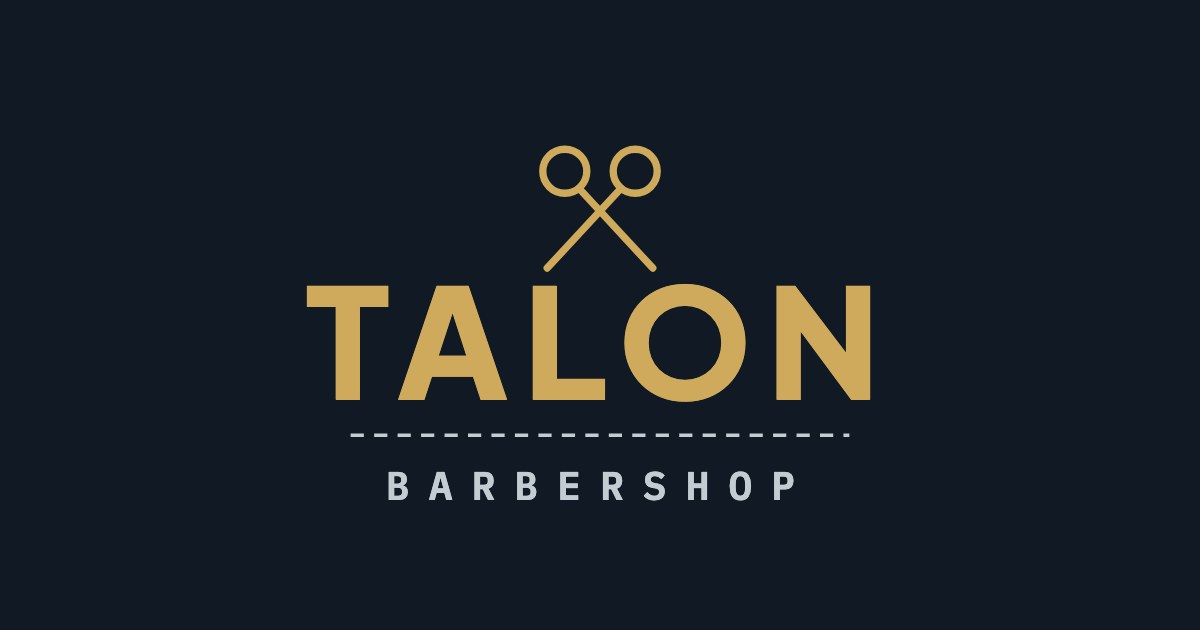
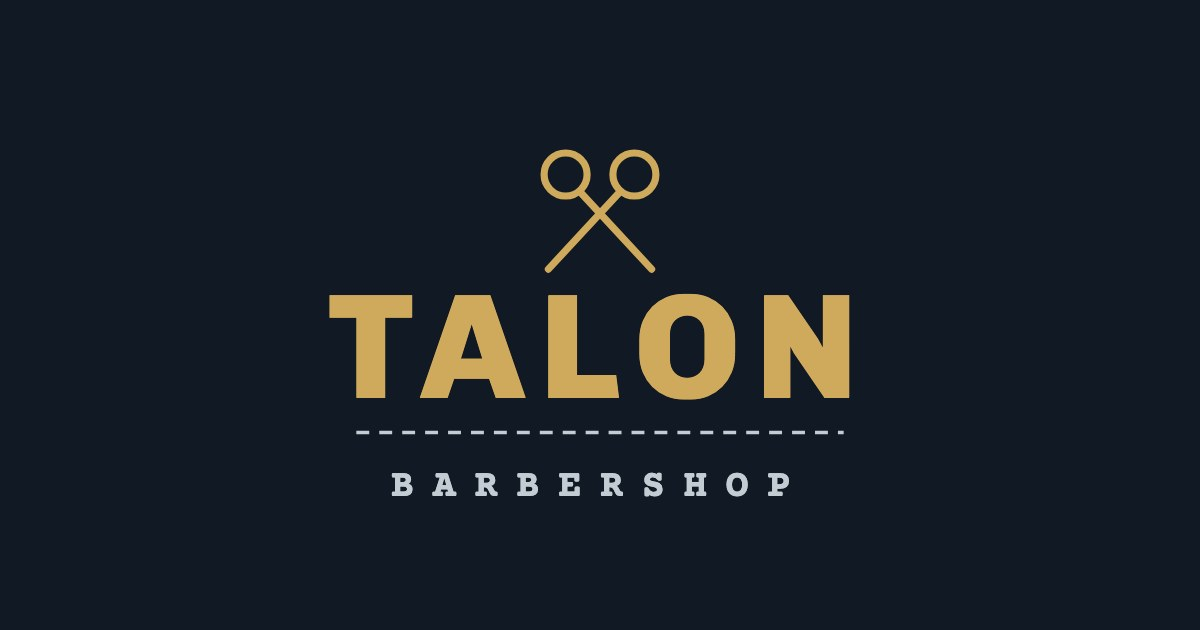
Eigene Schriften (Chivo, Courier Prime), ohne Entwurf-Plakette

diff --git a/index.html b/index.html
@@ -23,7 +23,7 @@
 </script>
 <link rel="preconnect" href="https://fonts.googleapis.com">
 <link rel="preconnect" href="https://fonts.gstatic.com" crossorigin>
-<link href="https://fonts.googleapis.com/css2?family=IBM+Plex+Mono:wght@400;500;600&family=Plus+Jakarta+Sans:wght@400;500;600;700;800&display=swap" rel="stylesheet">
+<link href="https://fonts.googleapis.com/css2?family=Chivo:wght@400;500;600;700;800;900&family=Courier+Prime:wght@400;700&display=swap" rel="stylesheet">
 <style>
 /* ---------- Farben (nur hier; Dunkel definiert nur Farben neu) ---------- */
 :root{
@@ -57,14 +57,14 @@
 *,*::before,*::after{box-sizing:border-box}
 html{-webkit-text-size-adjust:100%;scroll-behavior:smooth}
 body{margin:0;background:var(--bg);color:var(--ink);
-  font-family:"Plus Jakarta Sans",system-ui,-apple-system,"Segoe UI",Roboto,Arial,sans-serif;
+  font-family:"Chivo",system-ui,-apple-system,"Segoe UI",Roboto,Arial,sans-serif;
   font-size:17px;line-height:1.55;overflow-x:hidden;-webkit-font-smoothing:antialiased;
   transition:background-color .35s ease,color .35s ease}
 img{display:block;max-width:100%}
 a{color:inherit}
 :focus-visible{outline:2px solid var(--focus);outline-offset:3px;border-radius:8px}
 .wrap{max-width:1240px;margin:0 auto;padding:0 clamp(16px,4vw,48px)}
-.mono{font-family:"IBM Plex Mono",ui-monospace,"SFMono-Regular",Menlo,Consolas,monospace}
+.mono{font-family:"Courier Prime",ui-monospace,"SFMono-Regular",Menlo,Consolas,monospace}
 .sr{position:absolute;width:1px;height:1px;overflow:hidden;clip:rect(0 0 0 0);white-space:nowrap}
 
 /* ---------- Kopfzeile ---------- */
@@ -117,7 +117,7 @@ h1{font-size:clamp(42px,4.5vw,62px);line-height:1.02;letter-spacing:-.035em;font
   box-shadow:0 14px 26px -16px var(--shadow),inset 0 1px 0 rgba(255,255,255,.08);
   display:flex;align-items:center;justify-content:space-between;padding:0 18px 8px}
 .housing::after{content:"";position:absolute;left:28px;right:28px;bottom:9px;height:4px;border-radius:3px;background:var(--slit)}
-.housing .lbl{font-family:"IBM Plex Mono",ui-monospace,Menlo,monospace;font-size:10.5px;letter-spacing:.2em;color:var(--housing-text);text-transform:uppercase;margin-top:-6px}
+.housing .lbl{font-family:"Courier Prime",ui-monospace,Menlo,monospace;font-size:10.5px;letter-spacing:.2em;color:var(--housing-text);text-transform:uppercase;margin-top:-6px}
 .led{width:7px;height:7px;border-radius:50%;background:#5B5F64;margin-top:-6px;box-shadow:0 0 0 2px rgba(0,0,0,.25)}
 .printing .led,.printed .led{background:#7FD69A;box-shadow:0 0 8px #7FD69A}
 .feed{position:relative;z-index:2;margin-top:-13px;clip-path:inset(0 -80px -260px -80px)}
@@ -128,7 +128,7 @@ h1{font-size:clamp(42px,4.5vw,62px);line-height:1.02;letter-spacing:-.035em;font
 .printed .ticket,.static .ticket{transform:rotate(-1.6deg)}
 
 .t-main{background:var(--paper);color:var(--paper-ink);padding:26px 24px 22px;
-  font-family:"IBM Plex Mono",ui-monospace,"SFMono-Regular",Menlo,monospace;font-size:13px;line-height:1.75;
+  font-family:"Courier Prime",ui-monospace,"SFMono-Regular",Menlo,monospace;font-size:13px;line-height:1.75;
   -webkit-mask:radial-gradient(circle 9px at 0 100%,#0000 96%,#000) left/51% 100% no-repeat,radial-gradient(circle 9px at 100% 100%,#0000 96%,#000) right/51% 100% no-repeat;
           mask:radial-gradient(circle 9px at 0 100%,#0000 96%,#000) left/51% 100% no-repeat,radial-gradient(circle 9px at 100% 100%,#0000 96%,#000) right/51% 100% no-repeat;
   background-image:linear-gradient(180deg,rgba(0,0,0,.035),transparent 28px)}
@@ -153,7 +153,7 @@ h1{font-size:clamp(42px,4.5vw,62px);line-height:1.02;letter-spacing:-.035em;font
 .bc-num{font-size:10.5px;letter-spacing:.35em;color:var(--paper-muted);text-align:center}
 .t-perf{height:0;border-top:2px dashed var(--paper-rule);margin:0 12px;position:relative;z-index:2}
 .stub{background:var(--paper);color:var(--paper-ink);padding:14px 24px 22px;position:relative;
-  font-family:"IBM Plex Mono",ui-monospace,Menlo,monospace;
+  font-family:"Courier Prime",ui-monospace,Menlo,monospace;
   display:flex;align-items:center;justify-content:space-between;gap:12px;
   transform-origin:12% 0;transition:transform .45s cubic-bezier(.3,1.5,.5,1);
   -webkit-mask:radial-gradient(circle 9px at 0 0,#0000 96%,#000) left/51% 100% no-repeat,radial-gradient(circle 9px at 100% 0,#0000 96%,#000) right/51% 100% no-repeat;
@@ -195,7 +195,7 @@ h1{font-size:clamp(42px,4.5vw,62px);line-height:1.02;letter-spacing:-.035em;font
 .ph:nth-child(5) img{object-position:50% 35%}
 .ph.in img{filter:grayscale(0) contrast(1);transform:scale(1)}
 .tag{position:absolute;left:10px;right:10px;bottom:0;background:var(--tag-bg);color:var(--tag-fg);
-  font-family:"IBM Plex Mono",ui-monospace,Menlo,monospace;font-size:12px;line-height:1.35;
+  font-family:"Courier Prime",ui-monospace,Menlo,monospace;font-size:12px;line-height:1.35;
   padding:9px 11px 13px;display:flex;justify-content:space-between;align-items:flex-end;gap:8px;
   box-shadow:0 10px 18px -10px var(--shadow);transform:rotate(-1.2deg);
   -webkit-mask:conic-gradient(from -45deg at 50% 100%,#000 90deg,#0000 0) 0 100%/10px 5px repeat-x,linear-gradient(#000,#000) top/100% calc(100% - 5px) no-repeat;
@@ -323,7 +323,7 @@ h1{font-size:clamp(42px,4.5vw,62px);line-height:1.02;letter-spacing:-.035em;font
 .vlist blockquote{margin:0;height:100%;background:var(--paper);color:var(--paper-ink);padding:22px 22px 18px;border-radius:4px;
   box-shadow:0 12px 24px -18px var(--shadow);display:flex;flex-direction:column;justify-content:space-between;gap:14px}
 .vlist p{margin:0;font-size:16px;line-height:1.55}
-.vlist footer{font-family:"IBM Plex Mono",ui-monospace,Menlo,monospace;font-size:12.5px;color:var(--paper-muted);letter-spacing:.04em}
+.vlist footer{font-family:"Courier Prime",ui-monospace,Menlo,monospace;font-size:12.5px;color:var(--paper-muted);letter-spacing:.04em}
 
 @media (max-width:899px){.vlist{grid-template-columns:1fr 1fr}}
 @media (max-width:599px){.vlist{grid-template-columns:1fr}.voices{padding:52px 0}.hero .wrap{padding-top:84px}.h1logo img{width:210px}
@@ -358,7 +358,7 @@ h1{font-size:clamp(42px,4.5vw,62px);line-height:1.02;letter-spacing:-.035em;font
 @media (max-width:899px){.gx-facts{grid-template-columns:1fr 1fr}}
 @media (max-width:640px){.gx{padding:48px 0}.gx-people,.gx-facts{grid-template-columns:1fr}.gx-name{font-size:23px}}
 .gx h2{font-size:clamp(28px,2.6vw,36px);letter-spacing:-.03em;line-height:1.1;font-weight:800}
-.gx-name{font-family:"IBM Plex Mono",ui-monospace,Menlo,monospace;font-weight:600;letter-spacing:.02em}
+.gx-name{font-family:"Courier Prime",ui-monospace,Menlo,monospace;font-weight:600;letter-spacing:.02em}
 
 /* ---------- Erster Bildschirm: linke Seite gross ---------- */
 .hero .intro{max-width:none}
@@ -457,7 +457,7 @@ h1{font-size:clamp(42px,4.5vw,62px);line-height:1.02;letter-spacing:-.035em;font
 .ph.on .img,.ph:focus-visible .img{box-shadow:0 0 0 3px var(--bg),0 0 0 5px var(--gold)}
 /* 5) Bildschilder tiefer, eine Zeile, Preis ganz */
 .ph{padding-bottom:0}
-.tag{position:relative;left:auto;right:auto;bottom:auto;margin:-14px 0 0;padding:9px 8px 12px;gap:6px;font-family:"Plus Jakarta Sans",system-ui,sans-serif;font-size:12px;letter-spacing:-.01em;font-weight:600;align-items:center;white-space:nowrap}
+.tag{position:relative;left:auto;right:auto;bottom:auto;margin:-14px 0 0;padding:9px 8px 12px;gap:6px;font-family:"Chivo",system-ui,sans-serif;font-size:12px;letter-spacing:-.01em;font-weight:600;align-items:center;white-space:nowrap}
 .tag span{min-width:0}
 .tag b{font-weight:800}
 
@@ -510,10 +510,10 @@ h1{font-size:clamp(42px,4.5vw,62px);line-height:1.02;letter-spacing:-.035em;font
 /* Bewertung als Abreisstalon (statt leuchtendem Rahmen) */
 .score-card{position:relative;gap:16px;padding:16px 26px 24px 30px;border:0;border-radius:0;box-shadow:0 14px 26px -14px rgba(0,0,0,.45);
   background:linear-gradient(var(--paper),var(--paper)) top/100% calc(100% - 8px) no-repeat;color:var(--paper-ink);transform:rotate(-1.4deg);
-  font-family:"IBM Plex Mono",ui-monospace,Menlo,monospace}
+  font-family:"Courier Prime",ui-monospace,Menlo,monospace}
 .score-card::after{content:"";position:absolute;left:0;right:0;bottom:0;height:8px;background:conic-gradient(from -45deg at 50% 100%,var(--paper) 90deg,#0000 0) 0 0/16px 8px repeat-x}
 .score-card::before{content:"";position:absolute;left:12px;top:10px;bottom:18px;border-left:2px dashed var(--paper-rule)}
-.score-card b{font-family:"IBM Plex Mono",ui-monospace,Menlo,monospace;font-weight:600;font-size:54px;color:var(--paper-ink);letter-spacing:-.02em}
+.score-card b{font-family:"Courier Prime",ui-monospace,Menlo,monospace;font-weight:600;font-size:54px;color:var(--paper-ink);letter-spacing:-.02em}
 .score-card .sc-of{color:var(--paper-ink);font-size:15px;font-weight:600;letter-spacing:.04em;text-transform:uppercase}
 .score-card .sc-line{color:var(--paper-muted);font-size:13px}
 
@@ -524,7 +524,7 @@ h1{font-size:clamp(42px,4.5vw,62px);line-height:1.02;letter-spacing:-.035em;font
 
 :root[data-theme="dark"] .v-mapimg img{filter:none}
 .tag{justify-content:center;text-align:center;font-size:13px}
-.ph[data-s="5"] .tag{white-space:normal}
+.tag{white-space:normal;text-wrap:balance;line-height:1.25}
 
 /* Telefon: lesbarer Text mindestens 13 px */
 @media (max-width:599px){
@@ -692,7 +692,7 @@ h1{font-size:clamp(42px,4.5vw,62px);line-height:1.02;letter-spacing:-.035em;font
 .v-time{align-items:flex-start}
 .v-days{display:flex;flex-direction:column;gap:10px}
 .days{display:flex;flex-wrap:wrap;gap:6px}
-.days .day{font-family:"IBM Plex Mono",ui-monospace,Menlo,monospace;font-size:14px;font-weight:600;letter-spacing:.04em;min-width:42px;height:38px;padding:0 6px;
+.days .day{font-family:"Courier Prime",ui-monospace,Menlo,monospace;font-size:14px;font-weight:600;letter-spacing:.04em;min-width:42px;height:38px;padding:0 6px;
   background:transparent;color:var(--ink);border:1.5px dashed transparent;border-radius:4px;cursor:pointer;transition:border-color .2s ease,color .2s ease,background-color .2s ease}
 .days .day[data-d="0"],.days .day[data-d="1"]{color:var(--muted)}
 .days .day.sel{border-style:solid;border-color:#CFA95C;color:#CFA95C;background:rgba(207,169,92,.1)}
@@ -744,7 +744,7 @@ a:focus-visible,button:focus-visible,[tabindex]:focus-visible,.v-mapimg:focus-vi
 .pl-now.open .pl-dot{background:#6FCB8E;box-shadow:0 0 0 4px rgba(111,203,142,.18)}
 .pl-chart{display:grid;grid-template-columns:34px minmax(0,1fr);gap:10px;--th:230px}
 .pl-axis{position:relative;height:var(--th);margin-top:4px}
-.pl-axis span{position:absolute;right:0;top:var(--y);transform:translateY(-50%);font-family:"IBM Plex Mono",ui-monospace,Menlo,monospace;font-size:11.5px;color:var(--muted)}
+.pl-axis span{position:absolute;right:0;top:var(--y);transform:translateY(-50%);font-family:"Courier Prime",ui-monospace,Menlo,monospace;font-size:11.5px;color:var(--muted)}
 .pl-days{display:grid!important;grid-template-columns:repeat(7,minmax(0,1fr));gap:6px!important;flex-wrap:nowrap}
 .pl .pl-day{display:flex;flex-direction:column;align-items:center;gap:8px;min-width:0;height:auto;padding:4px 2px 10px;margin:0;font:inherit;letter-spacing:0;font-weight:400;color:var(--ink);
   background:transparent;border:1.5px solid transparent;border-radius:14px;cursor:pointer;transition:background-color .2s ease,border-color .2s ease}
@@ -759,7 +759,7 @@ a:focus-visible,button:focus-visible,[tabindex]:focus-visible,.v-mapimg:focus-vi
 .pl-nowl{position:absolute;left:-2px;right:-2px;height:2px;margin-top:-1px;background:#F2F4F6;box-shadow:0 0 6px rgba(242,244,246,.7);z-index:2;transition:opacity .4s ease}
 .pl-d{font-weight:700;font-size:15px}
 .pl .pl-day.off{color:var(--muted)}
-.pl-h{font-family:"IBM Plex Mono",ui-monospace,Menlo,monospace;font-size:12.5px;line-height:1.35;text-align:center;color:var(--muted);font-variant-numeric:tabular-nums}
+.pl-h{font-family:"Courier Prime",ui-monospace,Menlo,monospace;font-size:12.5px;line-height:1.35;text-align:center;color:var(--muted);font-variant-numeric:tabular-nums}
 .pl-day.today .pl-d::after{content:"";display:block;width:6px;height:6px;margin:4px auto 0;border-radius:50%;background:#CFA95C}
 .pl .pl-day.sel{background:rgba(207,169,92,.09);border-color:rgba(207,169,92,.75)}
 .pl .pl-day.sel .pl-d,.pl .pl-day.sel .pl-h{color:#E2C27A}
@@ -806,7 +806,6 @@ a:focus-visible,button:focus-visible,[tabindex]:focus-visible,.v-mapimg:focus-vi
 </style>
 </head>
 <body>
-<div class="draft" aria-hidden="true">Entwurf – nur zur Ansicht</div>
 
 <header class="top">
   <div class="wrap">
@@ -826,9 +825,9 @@ a:focus-visible,button:focus-visible,[tabindex]:focus-visible,.v-mapimg:focus-vi
     <div class="intro">
       <h1 class="h1logo" id="h1"><svg class="tl-logo" viewBox="0 0 420 300" role="img" aria-label="Talon Barbershop"><title>Talon Barbershop</title>
 <g fill="none" stroke="#CFA95C" stroke-width="5" stroke-linecap="round"><circle cx="186" cy="52" r="15"/><circle cx="234" cy="52" r="15"/><path d="M196 64 L246 118"/><path d="M224 64 L174 118"/></g>
-<text x="210" y="208" text-anchor="middle" font-family="Plus Jakarta Sans,Arial,sans-serif" font-weight="800" font-size="104" letter-spacing="10" fill="#CFA95C">TALON</text>
+<text x="210" y="208" text-anchor="middle" font-family="Chivo,Arial,sans-serif" font-weight="800" font-size="104" letter-spacing="10" fill="#CFA95C">TALON</text>
 <line x1="40" y1="232" x2="380" y2="232" stroke="#C3CBD3" stroke-width="2.5" stroke-dasharray="9 7"/>
-<text x="210" y="276" text-anchor="middle" font-family="IBM Plex Mono,Menlo,monospace" font-weight="600" font-size="27" letter-spacing="13" fill="#C3CBD3">BARBERSHOP</text></svg></h1>
+<text x="210" y="276" text-anchor="middle" font-family="Courier Prime,Menlo,monospace" font-weight="600" font-size="27" letter-spacing="13" fill="#C3CBD3">BARBERSHOP</text></svg></h1>
       <p class="lead">Barbershop in Wil</p>
       <p class="h-addr"><svg viewBox="0 0 24 24" fill="none" stroke="currentColor" stroke-width="1.9" stroke-linecap="round" stroke-linejoin="round" aria-hidden="true"><path d="M12 21s-7-6.2-7-11.5A7 7 0 0 1 19 9.5C19 14.8 12 21 12 21z"/><circle cx="12" cy="9.5" r="2.5"/></svg><span>Musterweg&nbsp;12 · 9500&nbsp;Wil</span></p>
       <p class="status" id="status" aria-live="polite"><span class="dot" aria-hidden="true"></span><span id="st-main">Öffnungszeiten</span><span class="sub" id="st-sub">Di–Fr 08.30–18.30 · Sa 08.00–16.00</span></p>
@@ -953,9 +952,9 @@ a:focus-visible,button:focus-visible,[tabindex]:focus-visible,.v-mapimg:focus-vi
   <div class="wrap pl-wrap">
     <div class="pl-top"><div class="v-logo"><svg class="tl-logo tl-small" viewBox="0 0 420 300" role="img" aria-label="Talon Barbershop"><title>Talon Barbershop</title>
 <g fill="none" stroke="#CFA95C" stroke-width="5" stroke-linecap="round"><circle cx="186" cy="52" r="15"/><circle cx="234" cy="52" r="15"/><path d="M196 64 L246 118"/><path d="M224 64 L174 118"/></g>
-<text x="210" y="208" text-anchor="middle" font-family="Plus Jakarta Sans,Arial,sans-serif" font-weight="800" font-size="104" letter-spacing="10" fill="#CFA95C">TALON</text>
+<text x="210" y="208" text-anchor="middle" font-family="Chivo,Arial,sans-serif" font-weight="800" font-size="104" letter-spacing="10" fill="#CFA95C">TALON</text>
 <line x1="40" y1="232" x2="380" y2="232" stroke="#C3CBD3" stroke-width="2.5" stroke-dasharray="9 7"/>
-<text x="210" y="276" text-anchor="middle" font-family="IBM Plex Mono,Menlo,monospace" font-weight="600" font-size="27" letter-spacing="13" fill="#C3CBD3">BARBERSHOP</text></svg></div><h2 id="h-visit">Besuchen Sie uns</h2></div>
+<text x="210" y="276" text-anchor="middle" font-family="Courier Prime,Menlo,monospace" font-weight="600" font-size="27" letter-spacing="13" fill="#C3CBD3">BARBERSHOP</text></svg></div><h2 id="h-visit">Besuchen Sie uns</h2></div>
     <div class="pl" id="pl">
       <div class="pl-head"><h3 class="pl-t">Öffnungszeiten</h3><p class="pl-now" id="pl-now"><span class="pl-dot" aria-hidden="true"></span><b id="pl-now-a"></b><span id="pl-now-b"></span></p></div>
       <div class="pl-chart"><div class="pl-axis" aria-hidden="true"><span style="--y:0.000%">08</span><span style="--y:18.182%">10</span><span style="--y:36.364%">12</span><span style="--y:54.545%">14</span><span style="--y:72.727%">16</span><span style="--y:90.909%">18</span></div><div class="days pl-days" role="radiogroup" aria-label="Öffnungszeiten nach Tag"><button type="button" class="day pl-day off" role="radio" aria-checked="false" data-d="1" aria-label="Montag, geschlossen"><span class="pl-tube pl-zu"></span><span class="pl-d">Mo</span><span class="pl-h">zu</span></button><button type="button" class="day pl-day" role="radio" aria-checked="false" data-d="2" aria-label="Dienstag, 08.30 bis 18.30 Uhr"><span class="pl-tube"><i class="pl-fill" style="--t:4.545%;--h:90.909%;--i:1"></i></span><span class="pl-d">Di</span><span class="pl-h">08.30<br>18.30</span></button><button type="button" class="day pl-day" role="radio" aria-checked="false" data-d="3" aria-label="Mittwoch, 08.30 bis 18.30 Uhr"><span class="pl-tube"><i class="pl-fill" style="--t:4.545%;--h:90.909%;--i:2"></i></span><span class="pl-d">Mi</span><span class="pl-h">08.30<br>18.30</span></button><button type="button" class="day pl-day" role="radio" aria-checked="false" data-d="4" aria-label="Donnerstag, 08.30 bis 18.30 Uhr"><span class="pl-tube"><i class="pl-fill" style="--t:4.545%;--h:90.909%;--i:3"></i></span><span class="pl-d">Do</span><span class="pl-h">08.30<br>18.30</span></button><button type="button" class="day pl-day" role="radio" aria-checked="false" data-d="5" aria-label="Freitag, 08.30 bis 18.30 Uhr"><span class="pl-tube"><i class="pl-fill" style="--t:4.545%;--h:90.909%;--i:4"></i></span><span class="pl-d">Fr</span><span class="pl-h">08.30<br>18.30</span></button><button type="button" class="day pl-day" role="radio" aria-checked="false" data-d="6" aria-label="Samstag, 08.00 bis 16.00 Uhr"><span class="pl-tube"><i class="pl-fill" style="--t:0.000%;--h:72.727%;--i:5"></i></span><span class="pl-d">Sa</span><span class="pl-h">08.00<br>16.00</span></button><button type="button" class="day pl-day off" role="radio" aria-checked="false" data-d="0" aria-label="Sonntag, geschlossen"><span class="pl-tube pl-zu"></span><span class="pl-d">So</span><span class="pl-h">zu</span></button></div></div>
